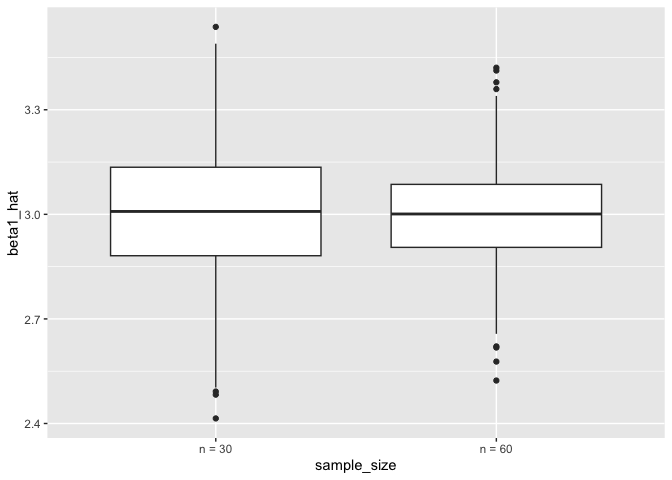
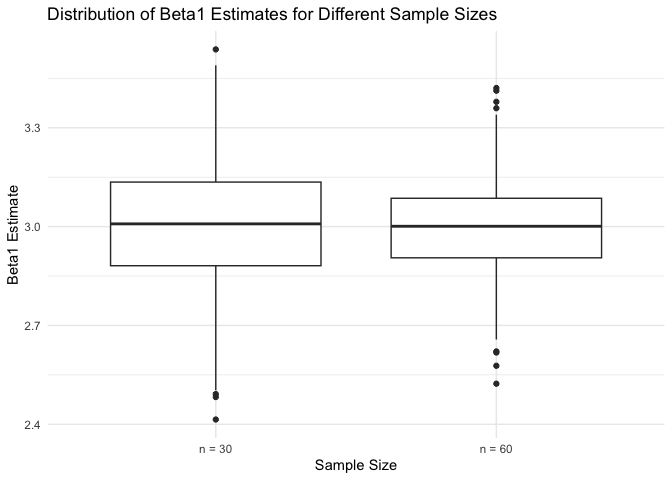
editing problem #1 to have titles for graphs

diff --git a/p8105_hw5_iah2124.md b/p8105_hw5_iah2124.md
@@ -165,9 +165,8 @@ ggplot(estimates_df, aes(x = mu)) +
   theme_minimal()
 ```
 
-![](p8105_hw5_iah2124_files/figure-gfm/unnamed-chunk-5-1.png)<!-- -->
-
-Is the sample average of 𝜇̂ across tests for which the null is rejected
+![](p8105_hw5_iah2124_files/figure-gfm/unnamed-chunk-5-1.png)<!-- --> Is
+the sample average of 𝜇̂ across tests for which the null is rejected
 approximately equal to the true value of 𝜇? Why or why not?
 
 ``` r
